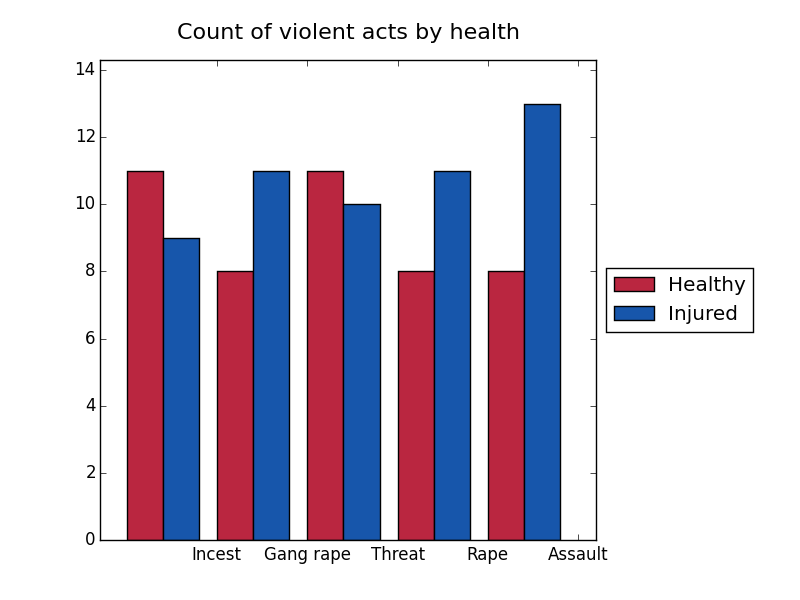
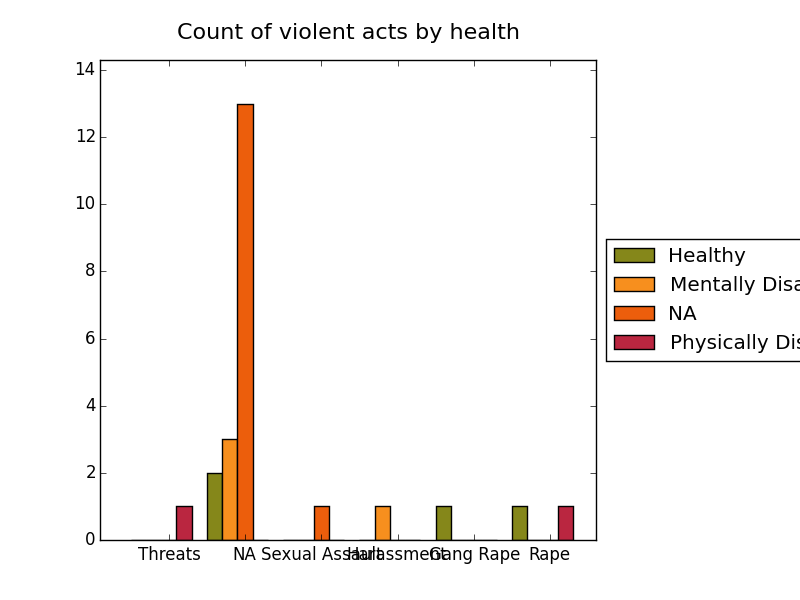
script is fullproof to duplicates and empty entries

Changed region(s): [[0.1562, 0.15, 0.75, 0.96], [0.75, 0.39, 1.0, 0.63]]

diff --git a/graphics_maker.py b/graphics_maker.py
@@ -34,13 +34,24 @@ def import_data(datafile):
 		sys.exit()
 
 	print "\nReading .csv file:", datafile, "\n"
+	data = remove_duplicates(data)
 	return data, header
+
+def remove_duplicates(data):
+	new_data = []
+	for row in data:
+		if row not in new_data:
+			new_data.append(row)
+	return new_data
+
+
 
 def clean_row(row):
 	newrow = []
 	title = row[0].split('-')[1:]
 	newrow = row[1:]
 	newrow.insert(0,'-'.join(title))
+	newrow = ["NA" if x=='' or x==' ' else x for x in newrow]
 	return newrow
 
 def is_int(s):
